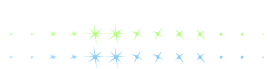
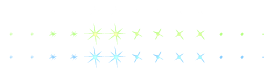
Futzing around with the sprites/animations

diff --git a/js/canvas.js b/js/canvas.js
@@ -83,7 +83,8 @@ atb.sheet.HERO_COL_SPAN = 3;
 // ******* BATTLE ANIMATIONS ********
 
 atb.sheet.animImage = [
-  'strike.png'
+  'strike.png',
+  'sparkle_21x23.png'
 ];
 
 /**
@@ -107,11 +108,17 @@ atb.sheet.hit = new createjs.SpriteSheet({
 
 atb.sheet.sparkle = new createjs.SpriteSheet({
     animations: {
+        // White only loop
         'white': [0, 12, 'white', 1],
-        'green': [13,25, 'green', 1]
+        // Green-white loop
+        'green': [13,25, 'green-white', 1],
+        'green-white': [0, 12, 'green', 1],
+        // Blue-white loop
+        'blue': [26,38, 'blue-white', 1],
+        'blue-white': [0, 12, 'blue', 1]
       },
     images: [atb.img.path + atb.img.typePath[atb.img.type.anim] + "sparkle_21x23.png"],
-    frames: {width:21,height:23,regX:10,regY:11, count:26}
+    frames: {width:21,height:23,regX:10,regY:11}
   });
 // ******* HEROES ********
 
@@ -243,7 +250,7 @@ atb.anim.strike = function(target, num) {
   hit = new createjs.BitmapAnimation(atb.sheet.hit);
   hit.x = hitTarget.x+_.random(-30,20);
   hit.y = hitTarget.y+_.random(-10,30);
-  hit.scaleX = hit.scaleY = _.random(2,4) / 2;
+  hit.scaleX = hit.scaleY = _.random(1,4) / 3;
   atb.stage.addChild(hit);
 
   hit.onAnimationEnd = (function(anim, frame) {
@@ -301,7 +308,7 @@ atb.anim.sparklesUp = function(target, numSparkles, type) {
     sparkle.y = target.y+_.random(30,50);
     sparkle.vY = _.random(12,25) / 3;
     sparkle.vA = _.random(2,4) / 150;
-    sparkle.scaleX = sparkle.scaleY = _.random(3,6) / 2;
+    sparkle.scaleX = sparkle.scaleY = _.random(4,8) / 2;
     sparkle.gotoAndPlay(sparkType);
     atb.stage.addChild(sparkle);
     sparkles.push(sparkle);

diff --git a/client.html b/client.html
@@ -829,6 +829,7 @@
             images = images.concat(heroAssets);
             // animations
             images.push([2, 0]);
+            images.push([2, 1]);
             manifest = atb.img.toPreloadManifest(images);
 
             // Use tag loading for now.
